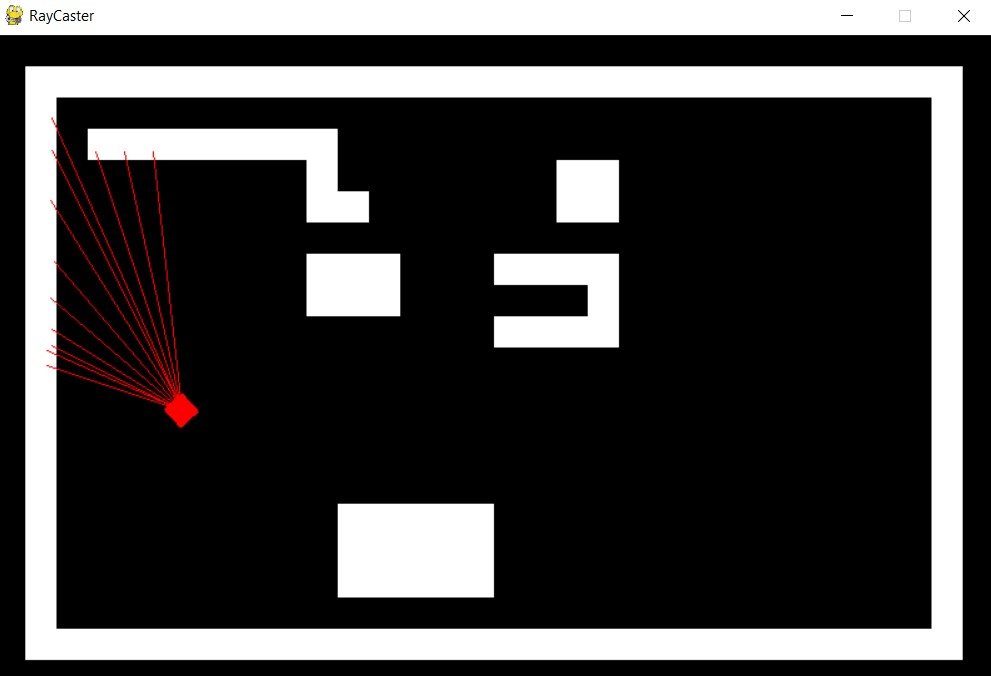
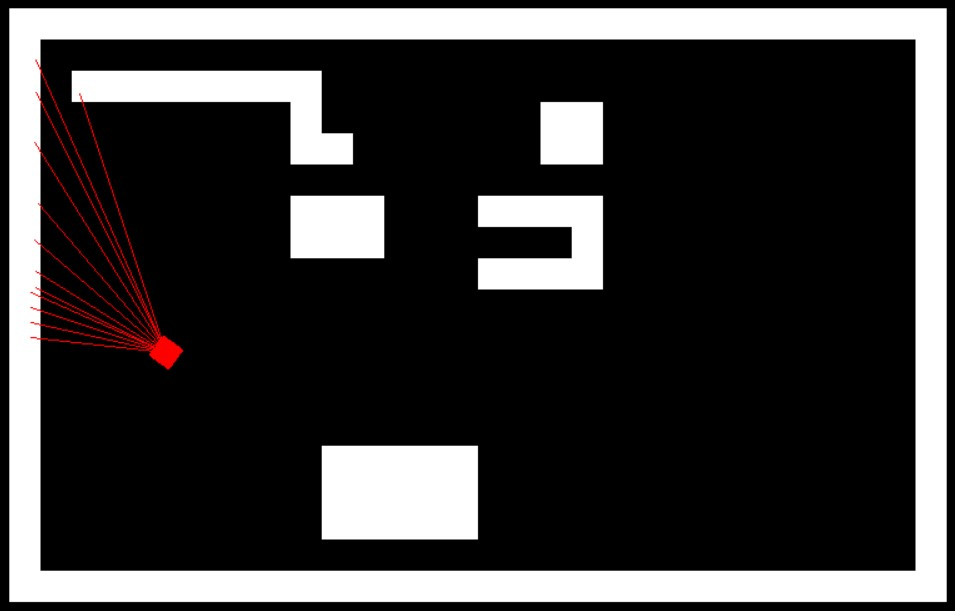
Updated

Changed region(s): [[0.0, 0.0, 1.0, 0.9951]]

diff --git a/src/Camera.py b/src/Camera.py
@@ -61,6 +61,7 @@ class Camera:
 
     def Cast_Ray(self, angle):
         # Naive Approach
+        """
         x, y = self.rect.center[0], self.rect.center[1];
         while True:
             i = (x - Assets.off_x) // Assets.tile_width;
@@ -73,39 +74,40 @@ class Camera:
             else: 
                 y -= (int)(math.cos(angle * math.pi / 180) * Assets.tile_magnitude);
                 x -= (int)(math.sin(angle * math.pi / 180) * Assets.tile_magnitude);
+        """ 
         # + Optimization + #
-        # delta = np.sign([math.cos(angle * math.pi / 180), math.sin((angle * math.pi) / 180)]);
-        # tan_angle = math.tan((angle - 90) * math.pi / 180);
-        # counter = 0;
-        # y_o = self.y;
-        # x_o = self.x;
-        # # Check the horizontal distance first 
-        # while(delta[1] and (x_o - Assets.off_x) % Assets.tile_width): x_o -= delta[1];
-        # y_o -= (x_o - self.x) * tan_angle;
-        # i, j = self.Position_To_Index(x_o - delta[1] * 5, y_o);
-        # while(self.Valid_Index(i,j) and x_o > 0 and y_o > 0 and not Assets.grid[i][j]):
-        #     x_o -= delta[1] * Assets.tile_width;
-        #     if(delta[1]): y_o += delta[1] * Assets.tile_width * tan_angle;
-        #     else: y_o -= delta[0] * Assets.tile_width;
-        #     i, j = self.Position_To_Index(x_o  - delta[1] * 5 , y_o);
-        # # #Check the vertical distance second
-        # y_i = self.y;
-        # x_i = self.x;
-        # while(delta[0] and (y_i - Assets.off_y) % Assets.tile_width): y_i -= delta[0];
-        # y_i -= delta[0] * Assets.tile_width;
-        # if(tan_angle): x_i -= (y_i - self.y) / tan_angle;
-        # else: x_i += delta[0] * 1000; # Auto Correction for infinity
-        # i, j = self.Position_To_Index(x_i, y_i - delta[0] * 5);
-        # while(self.Valid_Index(i,j) and not Assets.grid[i][j]):
-        #     y_i -= delta[0] * Assets.tile_width;
-        #     if(tan_angle):x_i += delta[0] *(Assets.tile_width) / tan_angle;
-        #     else: x_i += delta[0] * 1000;
-        #     i, j = self.Position_To_Index(x_i , y_i - delta[0] * 5);
-        # # Compare Horizontal and Veritcal Distances
-        # horiz_dist = (self.x - x_o)**2 + (self.y - y_o)**2;
-        # vert_dist = (self.x - x_i)**2 + (self.y - y_i)**2;
-        # if(horiz_dist < vert_dist): self.rays.append([x_o,y_o,horiz_dist,'h', angle]);
-        # else: self.rays.append([x_i,y_i,vert_dist,'v', angle]);
+        delta = np.sign([math.cos(angle * math.pi / 180), math.sin((angle * math.pi) / 180)]);
+        tan_angle = math.tan((angle - 90) * math.pi / 180);
+        counter = 0;
+        y_o = self.y;
+        x_o = self.x;
+        # Check the horizontal distance first 
+        while(delta[1] and (x_o - Assets.off_x) % Assets.tile_width): x_o -= delta[1];
+        y_o -= (x_o - self.x) * tan_angle;
+        i, j = self.Position_To_Index(x_o - delta[1] * 5, y_o);
+        while(self.Valid_Index(i,j) and x_o > 0 and y_o > 0 and not Assets.grid[i][j]):
+            x_o -= delta[1] * Assets.tile_width;
+            if(delta[1]): y_o += delta[1] * Assets.tile_width * tan_angle;
+            else: y_o -= delta[0] * Assets.tile_width;
+            i, j = self.Position_To_Index(x_o  - delta[1] * 5 , y_o);
+        # #Check the vertical distance second
+        y_i = self.y;
+        x_i = self.x;
+        while(delta[0] and (y_i - Assets.off_y) % Assets.tile_width): y_i -= delta[0];
+        y_i -= delta[0] * Assets.tile_width;
+        if(tan_angle): x_i -= (y_i - self.y) / tan_angle;
+        else: x_i += delta[0] * 1000; # Auto Correction for infinity
+        i, j = self.Position_To_Index(x_i, y_i - delta[0] * 5);
+        while(self.Valid_Index(i,j) and not Assets.grid[i][j]):
+            y_i -= delta[0] * Assets.tile_width;
+            if(tan_angle):x_i += delta[0] *(Assets.tile_width) / tan_angle;
+            else: x_i += delta[0] * 1000;
+            i, j = self.Position_To_Index(x_i , y_i - delta[0] * 5);
+        # Compare Horizontal and Veritcal Distances
+        horiz_dist = (self.x - x_o)**2 + (self.y - y_o)**2;
+        vert_dist = (self.x - x_i)**2 + (self.y - y_i)**2;
+        if(horiz_dist < vert_dist): self.rays.append([x_o,y_o,horiz_dist,'h', angle]);
+        else: self.rays.append([x_i,y_i,vert_dist,'v', angle]);
 
     def Position_To_Index(self, x, y):
         j = (int)((x - Assets.off_x) // Assets.tile_width);

diff --git a/main.py b/main.py
@@ -14,9 +14,9 @@ Map.Initialize_Map("./src/Map1.txt");
 
 while(running):
     Assets.screen.fill((0,0,0));
-    Map.Generate_Map(Assets.tile_width); # 2-D view
-    camera.Render_Camera(); # 2-D view
-    # camera.Render_Camera_View(); # 3-D view
+    # Map.Generate_Map(Assets.tile_width); # 2-D view
+    # camera.Render_Camera(); # 2-D view
+    camera.Render_Camera_View(); # 3-D view
     camera.Cast_Rays();
     for event in py.event.get():
         if(event.type == py.QUIT):

diff --git a/README.md b/README.md
@@ -35,26 +35,29 @@ This part was a little trickier, given that I have only rotated sprites and not 
 
 https://stackoverflow.com/questions/36510795/rotating-a-rectangle-not-image-in-pygame/51381391#51381391
 
-### Rendering the Center Ray
+### Rendering the Center Ray and peripheral rays
 
-This was the meat of the project and I had two implementations. The first naive implementation involved starting from the center of the camera and slowly drawing out intervals of the ray at a specific angle until that ray has intersected a wall. There were two main issues with this approach however:
+This was the meat of the project and I had two implementations. The first naive implementation involved starting from the center of the camera and slowly drawing out intervals of the ray at a specific angle until that ray has intersected a wall. There were three main issues with this approach however:
 
 * The intersection points on the walls were inconsistent, meaning that some rays travelled too far into the barriers, creating ray distortions.
 * The computational cost of this method was too much. Even after tuning certain parameters, The framerate could not handle this amount of computation. As a result it was very slow and not feasible for a standard machine.
+* Because Some rays would "overshoot" the bound, the rounding errors would cause some rays to "Merge" with other rays decreasing the quality of the image significantly.
 
 ![Naive](Images/NaiveRayCast.jpg)
 
 The second implementation was much better and counteracted the previous issues. This result was inspired by 3DSage, a youtuber who makes a RayCasting engine from scratch. This method was much faster and after tuning some parameters in the main.py file, I got it running fairly smoothely.
 
-### Rendering the other Rays
-
-This was simple, just use a for loop and cast rays at angles spaced with intervals from the central ray:
+![Optimized](Images/OptimizedRayCast.jpg)
 
 ### Rendering the 3D Surface
 
 Naive Approach: Simply take the distance calculated for each ray and take the inverse. This creates a parallax effect such that for objects further away, they will seem smaller. Each ray generated per frame is responsible for generating a segment of a wall. You can increase the quality of the frame by increasing the number of rays generated for the camera, however you will need to decrease the spacing between the rays to avoid warping the image. 
 
+![Naive3D](Images/Naive3D.jpg)
+
 Although this may seem fine at first, there is a main issue with this: The image appears warped. To avoid this "fisheye" effect, we needed to multiply the distance by the cosine of the angle between the ray and the central camera ray. You can see the effects of this afterwards:
+
+![Optimized3D](Images/Optimized3D.jpg)
 
 ## Contributing
 
